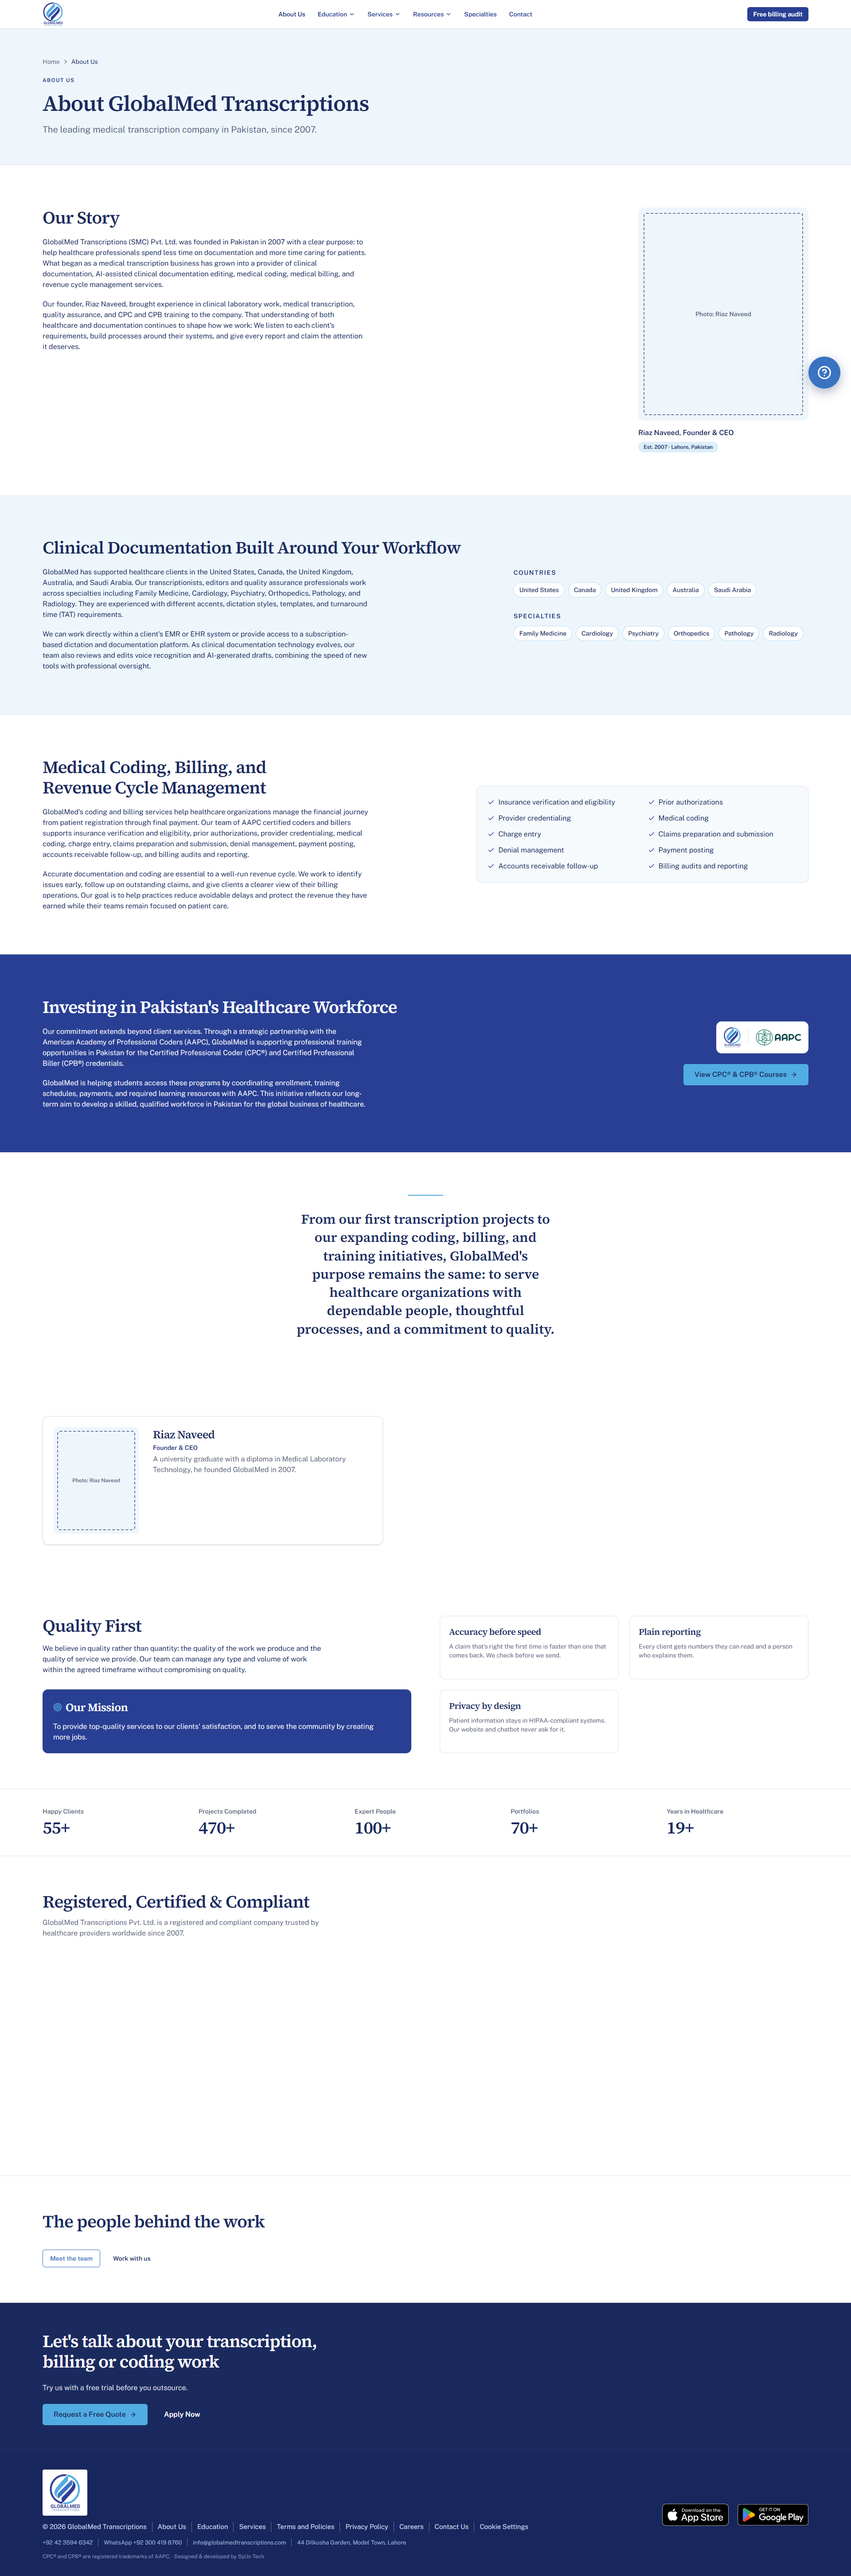
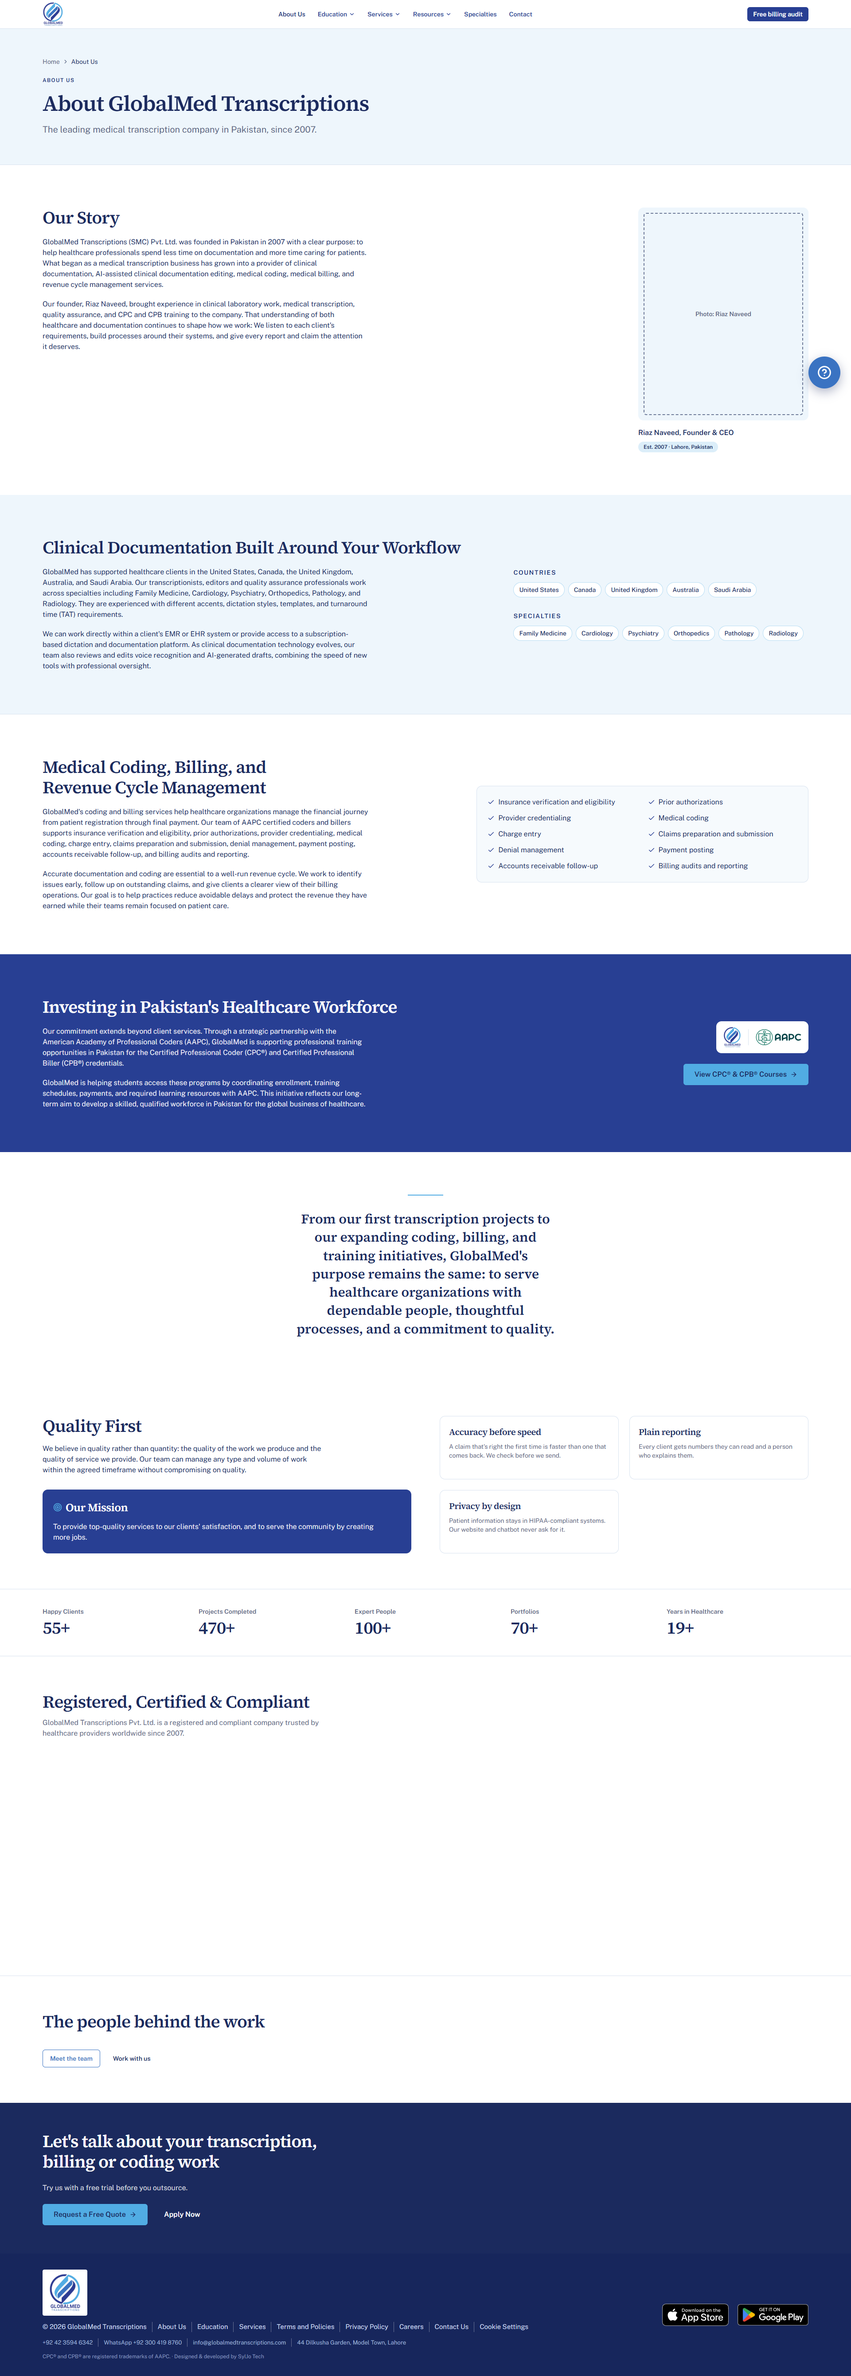
feat(about): hide the standalone Leadership card
The founder already appears in the new "Our Story" (photo, name and
role), so the separate Leadership card is hidden with the
aboutLeaderCard flag at client request. Nothing is deleted.

diff --git a/tests/e2e/about-story.spec.ts b/tests/e2e/about-story.spec.ts
@@ -56,9 +56,14 @@ test.describe("about: Our Story", () => {
     await expect(page.getByRole("heading", { name: "What We Do" })).toHaveCount(0);
     await expect(page.getByRole("heading", { name: "Our Story" })).toHaveCount(1);
     await expect(page.getByRole("heading", { name: "Strategic Partnership" })).toHaveCount(0);
-    for (const kept of ["Quality First", "Our Mission", "Riaz Naveed"]) {
+    for (const kept of ["Quality First", "Our Mission"]) {
       await expect(page.getByRole("heading", { name: kept }).first()).toBeVisible();
     }
+    // The standalone Leadership card is hidden (aboutLeaderCard); the founder shows only in
+    // Our Story.
+    await expect(page.getByRole("heading", { name: "Riaz Naveed" })).toHaveCount(0);
+    await expect(page.locator("body")).not.toContainText("diploma in Medical Laboratory");
+    await expect(page.getByText("Photo: Riaz Naveed")).toHaveCount(1);
 
     await expect(story.getByRole("link", { name: "View CPC® & CPB® Courses" })).toHaveAttribute(
       "href",

diff --git a/config/features.ts b/config/features.ts
@@ -71,10 +71,16 @@ export const features = {
   claimLine: false,
   /**
    * Hidden at client request (2026-09-29) — replaced by the new four-part "Our Story" section
-   * (content/about-story.ts). The previous About "Our Story" and "What We Do" paragraphs. The
-   * Leadership card stays visible either way. Set true to restore.
+   * (content/about-story.ts). The previous About "Our Story" and "What We Do" paragraphs.
+   * Set true to restore.
    */
   aboutStoryOld: false,
+  /**
+   * Hidden at client request (2026-09-29) — the founder already appears in the new "Our Story"
+   * (photo, name and role). The standalone About Leadership card (Riaz Naveed photo, role and
+   * bio) shown below "Our Story". Set true to restore.
+   */
+  aboutLeaderCard: false,
   /**
    * Hidden at client request (2026-09-29) — replaced by "Investing in Pakistan's Healthcare
    * Workforce" in the new "Our Story". The previous "Strategic Partnership" block on the About

diff --git a/app/(marketing)/about/page.tsx b/app/(marketing)/about/page.tsx
@@ -109,9 +109,12 @@ export default function AboutPage() {
           </Section>
         </>
       ) : (
-        <Section>
-          <LeaderCard className="sm:grid sm:max-w-3xl sm:grid-cols-[12rem_1fr] sm:items-start sm:gap-8" />
-        </Section>
+        // Hidden at client request (2026-09-29): the founder is already shown in "Our Story".
+        features.aboutLeaderCard && (
+          <Section>
+            <LeaderCard className="sm:grid sm:max-w-3xl sm:grid-cols-[12rem_1fr] sm:items-start sm:gap-8" />
+          </Section>
+        )
       )}
 
       <Section className="lg:grid lg:grid-cols-2 lg:gap-16">

diff --git a/pm/SESSION_LOG.md b/pm/SESSION_LOG.md
@@ -335,6 +335,13 @@ Newest entry at the bottom. One entry per Claude Code session.
 - **Next / notes:** the client may want the "Taught by: AAPC faculty" row on the cards dropped now that the format line names AAPC certified trainers.
 
 ---
+### Session 009c — About: Leadership card hidden
+- **Date:** 2026-09-29
+- **Done:** the standalone Leadership card (Riaz Naveed photo slot, "Founder & CEO", the Medical Laboratory Technology bio) is hidden with `aboutLeaderCard: false`, because the founder already appears in "Our Story". `LeaderCard` stays in the code (the old story still uses it if `aboutStoryOld` is turned back on).
+- **Verified:** tsc, eslint, 119 unit tests, `next build`; about-story e2e (the card's heading and bio are gone, one founder photo slot remains) and the About visual audit incl. axe at 360/768/1280. Screenshots pm/screenshots/about-story-{360,1920}.png regenerated.
+- **Files touched:** config/features.ts, app/(marketing)/about/page.tsx, tests/e2e/about-story.spec.ts, pm/*
+
+---
 
 ### Session NNN — <title>
 - **Date:**

diff --git a/pm/CHANGELOG.md b/pm/CHANGELOG.md
@@ -29,6 +29,7 @@ Format: Keep a Changelog · Semantic Versioning
 
 - About: previous "Our Story"/"What We Do" (`aboutStoryOld`) and "Strategic Partnership" (`aboutPartnershipBlockOld`) hidden by flag; Leadership card kept on its own; new meta description; Our Story facts in the docs/09 chatbot knowledge (2026-09-29)
 - AAPC courses: order is CPC®, CPB®, then CPC® + CPB® everywhere (dual keeps "Best value" in third place); dual course USD 1,800 (save USD 300 vs USD 2,100) over 16 weeks; format line "Online sessions conducted by AAPC certified trainers" on cards, course heroes and the comparison table; docs/09 updated (2026-09-29)
+- About: standalone Leadership card hidden (`aboutLeaderCard: false`); the founder is shown in "Our Story" (2026-09-29)
 
 - Claim-line motif removed site-wide at client request (ADR-028): slider shows dots only, "How it works" uses numbered steps, the audit form shows "Step x of y" with a plain bar (2026-09-28)
 
